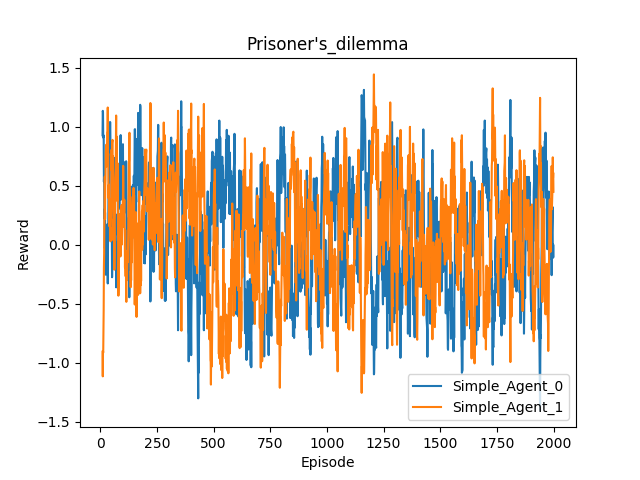
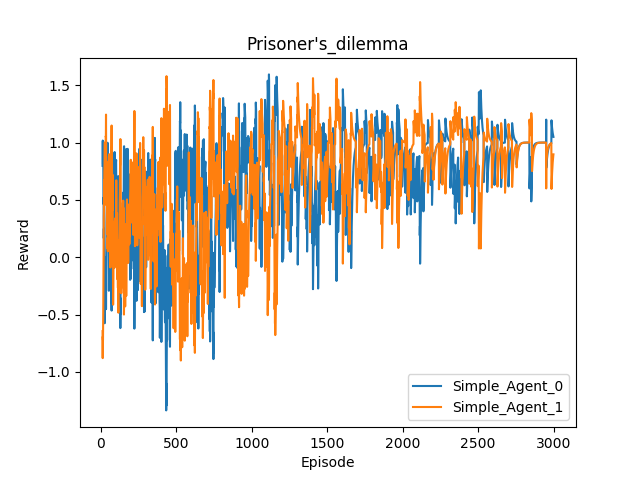
Plotting results, fixed a few parameters

diff --git a/main.py b/main.py
@@ -4,8 +4,8 @@ from statistics import mean
 from Environments import Prisoners_Dilemma
 from Agents import Actor_Critic_Agent, Critic_Variant, Policing_Agent, Simple_Agent
 HISTORY_LENGTH = 5 # the NN will use the actions from this many past rounds to determine its action
-N_EPISODES = 2000
-N_PLAYERS = 4
+N_EPISODES = 3000
+N_PLAYERS = 2
 N_UNITS = 1 #number of nodes in the intermediate layer of the NN
 
 def run_game(N_EPISODES, players, policing_agent = None):
@@ -30,7 +30,7 @@ def run_game(N_EPISODES, players, policing_agent = None):
 
             if policing_agent is not None:
                 a_p_list = policing_agent.choose_action(s,actions)
-                policing_rs = [4 * (a_p-0.5) for a_p in a_p_list]
+                policing_rs = [6 * (a_p-0.5) for a_p in a_p_list]
                 mean_policing_r = mean(policing_rs)
                 policing_rs = [r-mean_policing_r for r in policing_rs]
                 rewards = [ sum(r) for r in zip(rewards,policing_rs)]
@@ -86,13 +86,13 @@ def create_population(env,n_agents, use_simple_agents = False):
     critic_variant = Critic_Variant.CENTRALIZED
     if use_simple_agents:
         l = [Simple_Agent(env, 
-                      learning_rate=0.005,
+                      learning_rate=0.01,
                       gamma=0.9,
                       agent_idx = i,
                       critic_variant = critic_variant) for i in range(n_agents)]
     else:
         l = [Actor_Critic_Agent(env, 
-                      learning_rate=0.005,
+                      learning_rate=0.01,
                       gamma=0.9,
                       n_units_actor = N_UNITS,
                       agent_idx = i,
@@ -115,11 +115,11 @@ if __name__ == "__main__":
     #     agent.close()
 
     env = Prisoners_Dilemma()    
-    agents = create_population(env,2, use_simple_agents = True)
+    agents = create_population(env,N_PLAYERS, use_simple_agents = True)
     policing_agent = Policing_Agent(env,agents)
 
     avg_rewards_per_round,avg_policing_rewards_per_round = run_game(N_EPISODES,agents,policing_agent)
     plot_results(avg_rewards_per_round,[str(agent) for agent in agents],env.__str__(), exp_factor=0.1)
     plot_results(avg_policing_rewards_per_round,[str(agent) for agent in agents],env.__str__()+'_policing_rewards', exp_factor=0.1)
-    action_prob_each_round_list = np.array([agent.log for agent in agents])
-    plot_results(action_prob_each_round_list,[str(agent) for agent in agents],env.__str__()+'action_probabilities')
+    action_prob_each_round_list = np.transpose(np.array([agent.log for agent in agents]))
+    plot_results(action_prob_each_round_list,[str(agent) for agent in agents],env.__str__()+'_player_action_probabilities', ylabel = 'P(Cooperation)')

diff --git a/Agents.py b/Agents.py
@@ -210,10 +210,15 @@ class Simple_Agent(Agent): #plays games with 2 actions, using a single parameter
     def __str__(self):
         return 'Simple_Agent_'+str(self.agent_idx)
 
+    def choose_action(self, s):
+        action_probs = self.calc_action_probs(s)
+        action = np.random.choice(range(action_probs.shape[1]), p=action_probs.ravel())  # select action w.r.t the actions prob
+        self.log.append(action_probs[0,1])
+        return action
+
     def calc_action_probs(self, s):
         s = s[np.newaxis, :]
         probs = self.sess.run(self.actions_prob)  
-        self.log.append(probs[0,1])
         return probs
 
     def pass_agent_list(self, agent_list):
@@ -274,7 +279,7 @@ class Policing_Sub_Agent(Agent):
 
         with tf.variable_scope('Vp'):
             # Vp is trivial to calculate in this special case
-            self.vp = 4 * (self.actions_prob[0,1]-self.actions_prob[0,0])
+            self.vp = 3 * (self.actions_prob[0,1]-self.actions_prob[0,0])
 
         with tf.variable_scope('V_total'):
             # V is trivial to calculate in this special case
